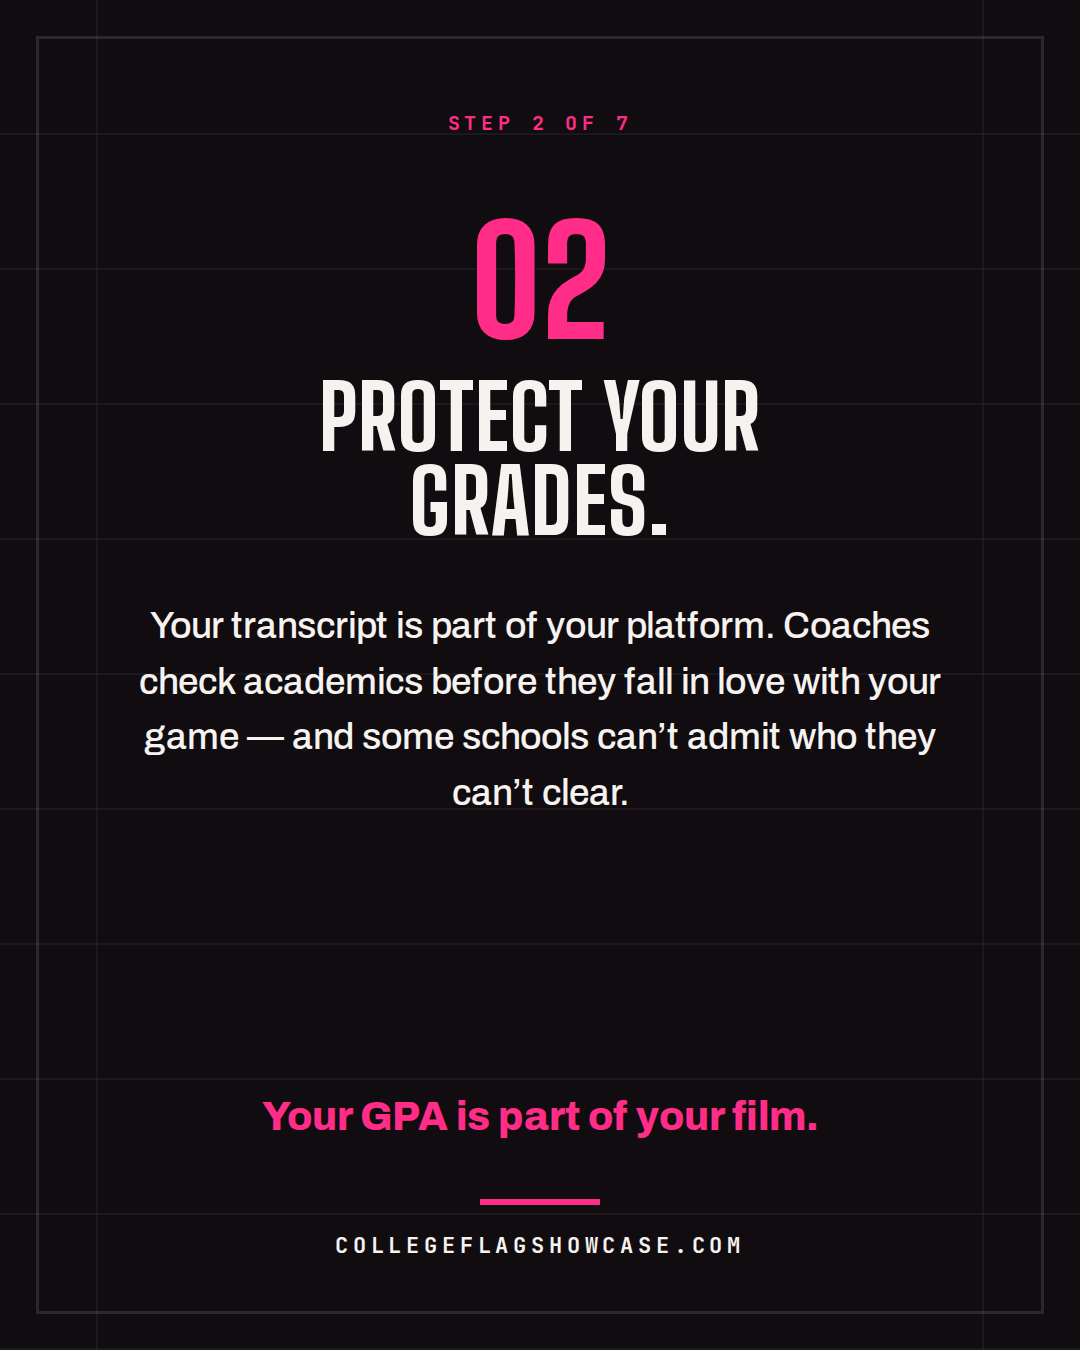
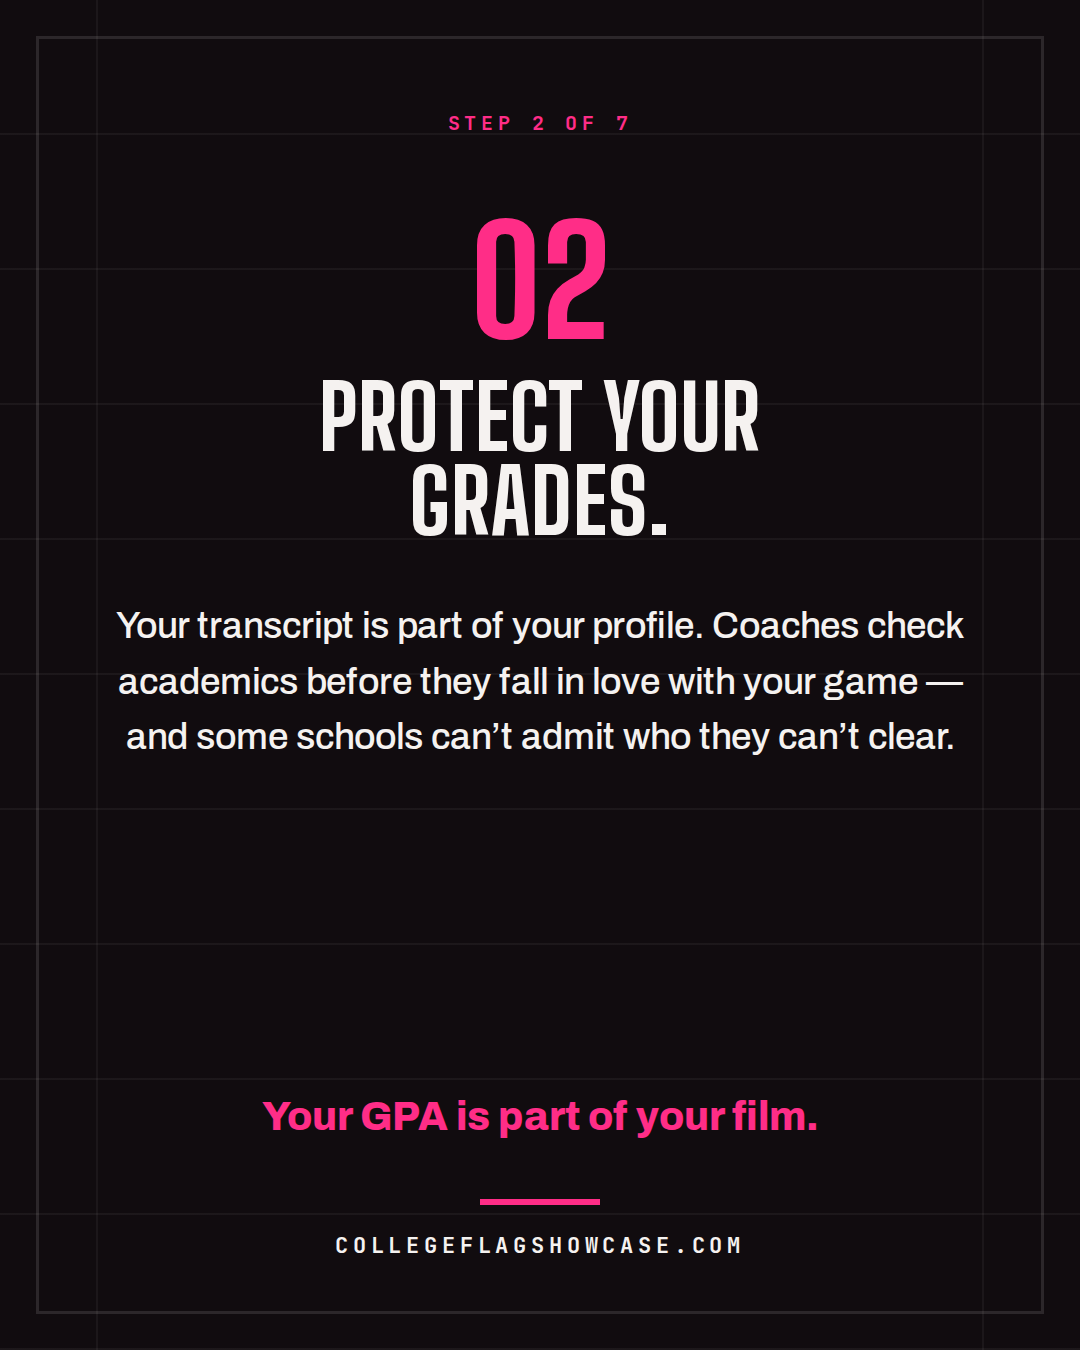
Match Step 2 wording to the profile framing
Claude-Session: https://claude.ai/code/session_019V32boShoBmRrwWenCPJFc

Changed region(s): [[0.0917, 0.4356, 0.8861, 0.6222]]

diff --git a/collateral/ig-carousel-7-steps.html b/collateral/ig-carousel-7-steps.html
@@ -80,7 +80,7 @@
     <p class="kicker">Step 2 of 7</p>
     <p class="num">02</p>
     <h2 class="slide-title">Protect your<br />grades.</h2>
-    <p class="slide-body">Your transcript is part of your platform. Coaches check academics before they fall in love with your game &mdash; and some schools can&rsquo;t admit who they can&rsquo;t clear.</p>
+    <p class="slide-body">Your transcript is part of your profile. Coaches check academics before they fall in love with your game &mdash; and some schools can&rsquo;t admit who they can&rsquo;t clear.</p>
     <p class="slide-punch">Your GPA is part of your film.</p>
     <div class="rule"></div>
     <p class="foot"><b>collegeflagshowcase.com</b></p>
